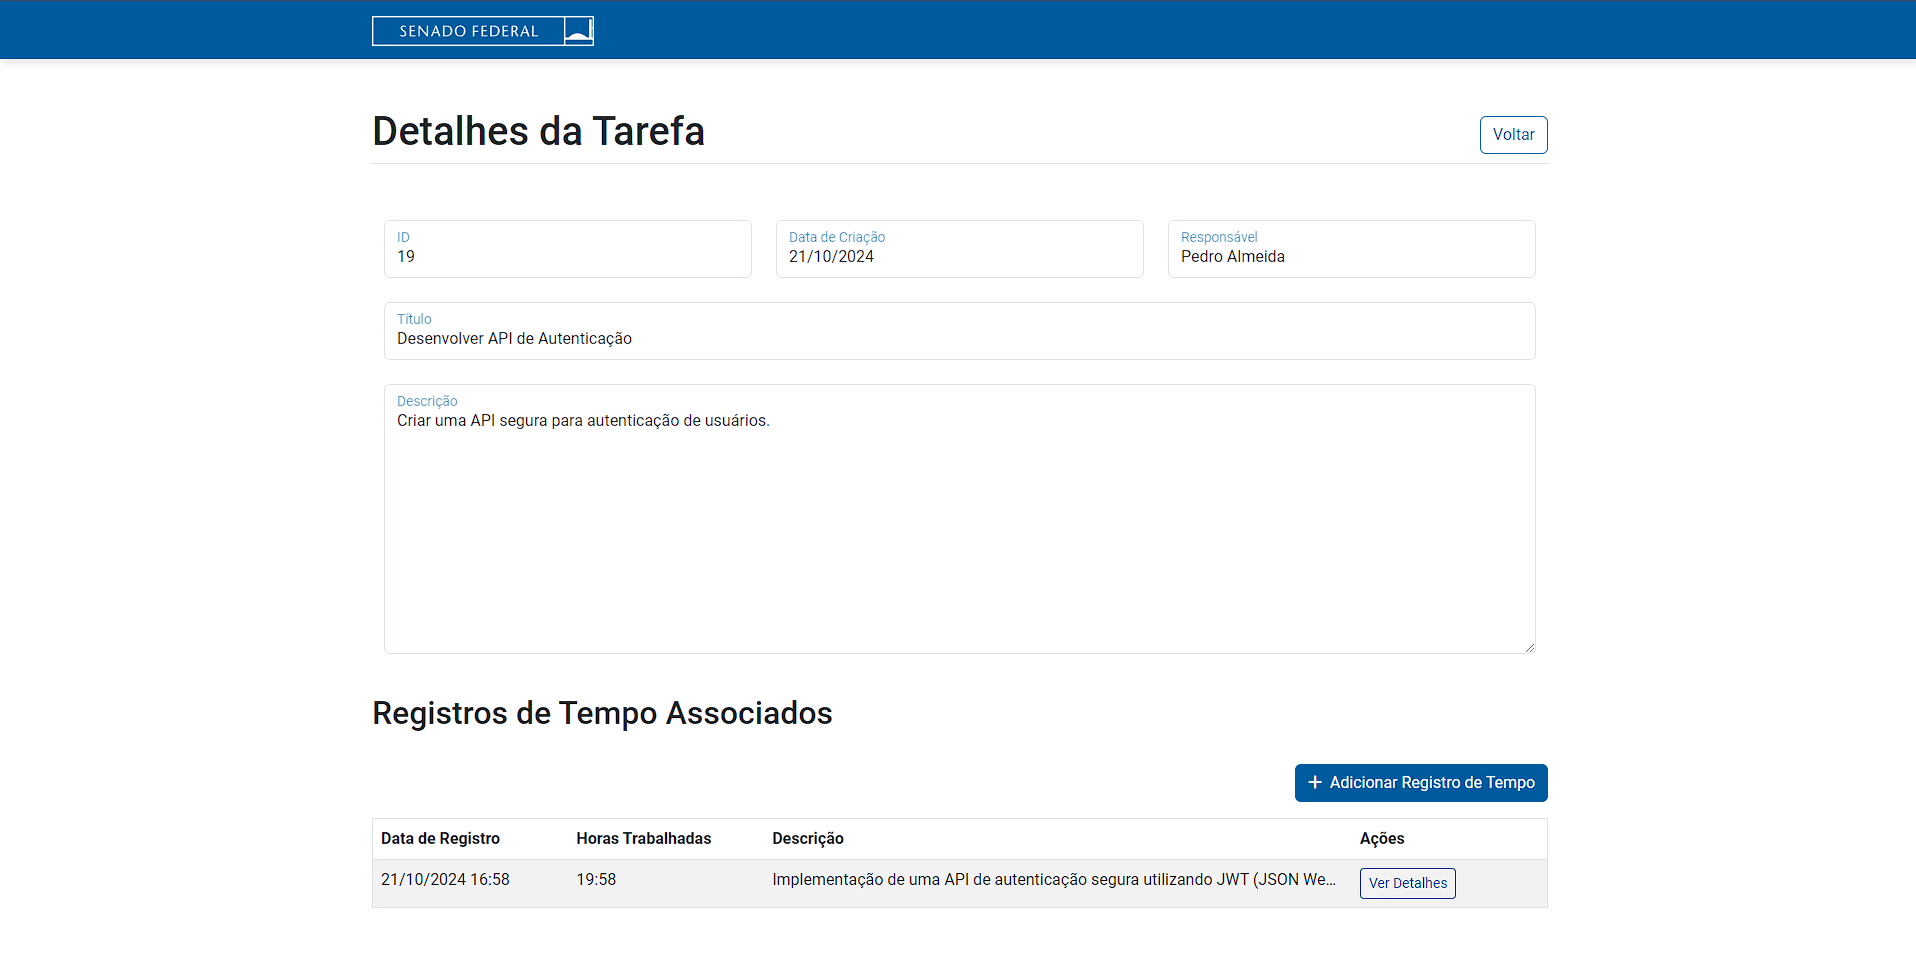
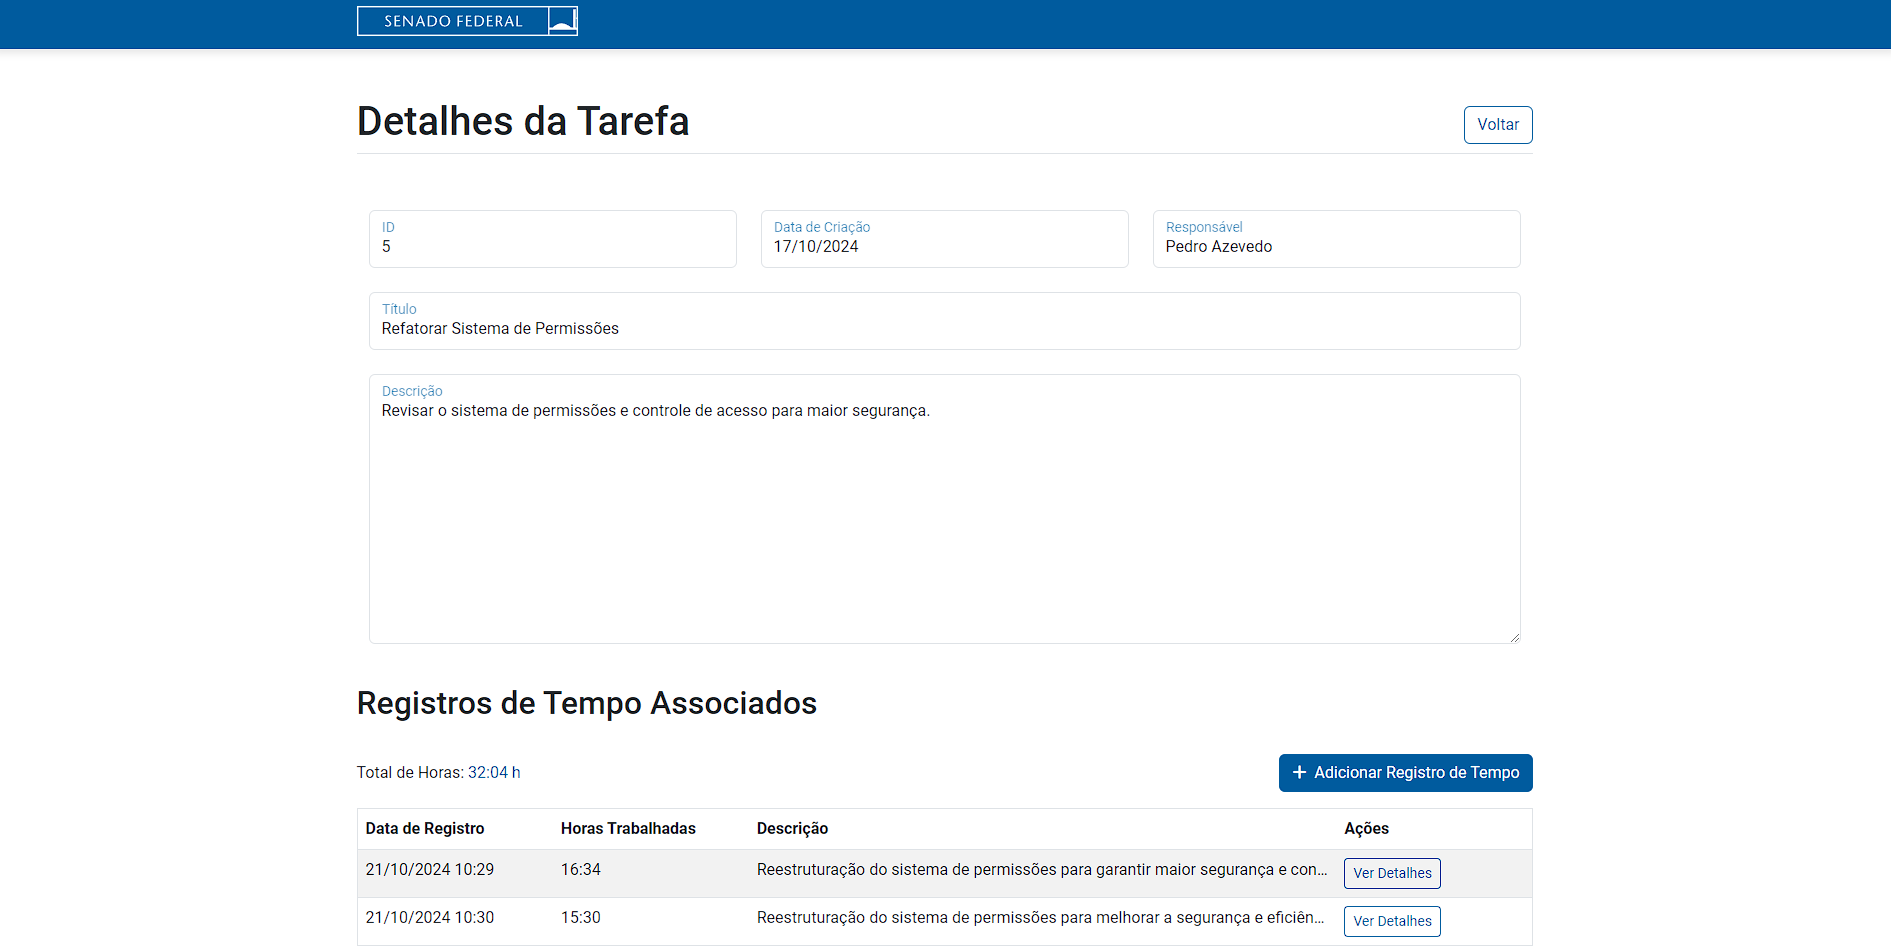
feat: exibe total de horas trabalhadas acima da tabela de registros

diff --git a/tarefa/templates/tarefa/detalhe_tarefa.html b/tarefa/templates/tarefa/detalhe_tarefa.html
@@ -85,10 +85,11 @@
 <div class="d-flex justify-content-between align-items-center mb-4">
   <h2 class="mt-4">Registros de Tempo Associados</h2>
 </div>
-<div class="d-flex justify-content-end">
+<div class="d-flex justify-content-between">
+  <p class="mb-0 align-self-center">Total de Horas: <span class="text-custom"> {{ total_horas }} h</span></p> 
   <button
     type="button"
-    class="btn btn-custom"
+    class="btn btn-custom align-self-center"
     data-bs-toggle="modal"
     data-bs-target="#modalRegistroTarefa"
     id="btnRegistroTarefa"
@@ -96,6 +97,7 @@
     <i class="fas fa-plus me-1"></i> Adicionar Registro de Tempo
   </button>
 </div>
+
 <div class="table-responsive">
   <table class="table table-striped mt-3 border">
     <thead>

diff --git a/tarefa/views.py b/tarefa/views.py
@@ -6,7 +6,7 @@ from .filters import filtrar_tarefas
 from tempo_trabalho.models import RegistroTempo
 from django.http import HttpResponseRedirect
 from django.urls import reverse
-
+from .utils import formatar_horas
 
 def listar_tarefa(request):
     tarefas_list = Tarefa.objects.all().order_by('-data_criacao')
@@ -59,9 +59,14 @@ def salvar_tarefa(request):
 def detalhe_tarefa(request, id):
     tarefa = get_object_or_404(Tarefa, id=id)
     registros = RegistroTempo.objects.filter(tarefa=tarefa).order_by('data_registro')
+
+    total_horas_decimais = sum([registro.horas_trabalhadas for registro in registros])
+    total_horas = formatar_horas(total_horas_decimais)
+    
     return render(request, 'tarefa/detalhe_tarefa.html', {
         'tarefa': tarefa,
         'registros': registros,
+        'total_horas': total_horas,
     })
 
 

diff --git a/tarefa/utils.py b/tarefa/utils.py
@@ -1,0 +1,7 @@
+from math import modf
+
+def formatar_horas(total_horas):
+    horas, minutos_decimais = divmod(total_horas, 1)
+    minutos = int(minutos_decimais * 60)
+    
+    return f'{int(horas):02}:{minutos:02}'
